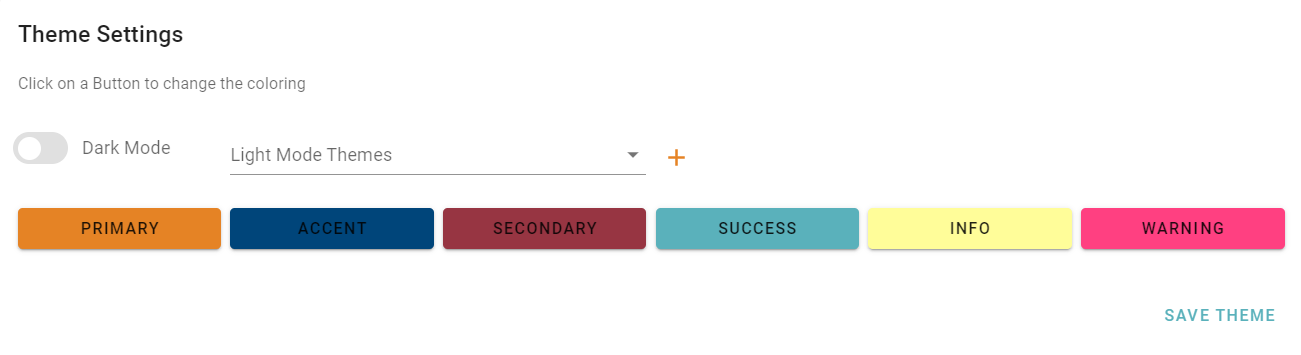
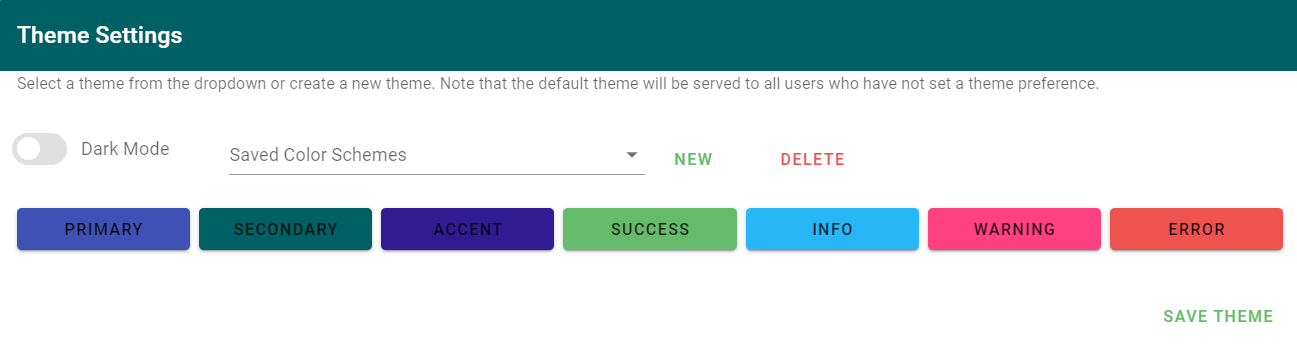
documentation

diff --git a/frontend/src/components/MealPlan/MealPlanner.vue b/frontend/src/components/MealPlan/MealPlanner.vue
@@ -8,24 +8,24 @@
     <NewMeal v-else @created="requestMeals" />
 
     <v-card class="my-1">
-      <v-card-title class="accent white--text"> Meal Plans </v-card-title>
+      <v-card-title class="secondary white--text"> Meal Plans </v-card-title>
 
       <v-timeline align-top :dense="$vuetify.breakpoint.smAndDown">
         <v-timeline-item
-          class="px-1"
+          class="mx-4"
           v-for="(mealplan, i) in plannedMeals"
           :key="i"
           color="accent lighten-2"
           icon="mdi-silverware-variant"
           fill-dot
         >
-          <v-card color="accent lighten-2" dark>
-            <v-card-title class="title">
+          <v-card>
+            <v-card-title class="white--text secondary lighten-1">
               {{ formatDate(mealplan.startDate) }} -
               {{ formatDate(mealplan.endDate) }}
             </v-card-title>
 
-            <v-card-text class="white text--primary">
+            <v-card-text>
               <v-row dense align="center">
                 <v-col></v-col>
                 <v-col
@@ -42,22 +42,24 @@
                 </v-col>
                 <v-col></v-col>
               </v-row>
-              <v-btn
-                color="accent lighten-2"
-                class="mx-0"
-                outlined
-                @click="editPlan(mealplan.uid)"
-              >
-                Edit
-              </v-btn>
-              <v-btn
-                color="error lighten-2"
-                class="mx-2"
-                outlined
-                @click="deletePlan(mealplan.uid)"
-              >
-                Delete
-              </v-btn>
+              <v-row class="mt-2 ml-1">
+                <v-btn
+                  color="accent lighten-2"
+                  class="mx-0"
+                  text
+                  @click="editPlan(mealplan.uid)"
+                >
+                  Edit
+                </v-btn>
+                <v-btn
+                  color="error lighten-2"
+                  class="mx-2"
+                  text
+                  @click="deletePlan(mealplan.uid)"
+                >
+                  Delete
+                </v-btn>
+              </v-row>
             </v-card-text>
           </v-card>
         </v-timeline-item>

diff --git a/frontend/src/components/RecipeEditor/ViewRecipe.vue b/frontend/src/components/RecipeEditor/ViewRecipe.vue
@@ -16,7 +16,7 @@
             type="label"
             :ripple="false"
             elevation="0"
-            color="accent darken-1"
+            color="secondary darken-1"
             class="rounded-sm static"
           >
             {{ yields }}
@@ -24,8 +24,8 @@
         </v-col>
         <v-rating
           class="mr-2 align-end static"
-          color="accent darken-1"
-          background-color="accent lighten-3"
+          color="secondary darken-1"
+          background-color="secondary lighten-3"
           length="5"
           :value="rating"
         ></v-rating>
@@ -41,7 +41,7 @@
               hide-details
               class="ingredients"
               :label="ingredient"
-              color="accent"
+              color="secondary"
             >
             </v-checkbox>
           </div>
@@ -117,7 +117,7 @@
           :ripple="false"
           elevation="0"
           :href="orgURL"
-          color="accent darken-1"
+          color="secondary darken-1"
           target="_blank"
           class="rounded-sm mr-4"
         >

diff --git a/frontend/src/components/Admin/Theme.vue b/frontend/src/components/Admin/Theme.vue
@@ -1,6 +1,6 @@
 <template>
   <v-card>
-    <v-card-title class="card-title mt-1"> Theme Settings </v-card-title>
+    <v-card-title class="secondary white--text"> Theme Settings </v-card-title>
     <v-card-text>
       <p>
         Select a theme from the dropdown or create a new theme. Note that the
@@ -45,13 +45,13 @@
           <ColorPicker button-text="Primary" v-model="activeTheme.primary" />
         </v-col>
         <v-col>
-          <ColorPicker button-text="Accent" v-model="activeTheme.accent" />
-        </v-col>
-        <v-col>
           <ColorPicker
             button-text="Secondary"
             v-model="activeTheme.secondary"
           />
+        </v-col>
+        <v-col>
+          <ColorPicker button-text="Accent" v-model="activeTheme.accent" />
         </v-col>
         <v-col>
           <ColorPicker button-text="Success" v-model="activeTheme.success" />

diff --git a/frontend/src/components/UI/ButtonRow.vue b/frontend/src/components/UI/ButtonRow.vue
@@ -9,11 +9,11 @@
         <v-btn class="mr-2" fab dark small color="success" @click="save">
           <v-icon>mdi-content-save</v-icon>
         </v-btn>
-        <v-btn class="mr-5" fab dark small color="accent" @click="json">
+        <v-btn class="mr-5" fab dark small color="secondary" @click="json">
           <v-icon>mdi-code-braces</v-icon>
         </v-btn>
       </div>
-      <v-btn color="secondary" fab dark small @click="editor">
+      <v-btn color="accent" fab dark small @click="editor">
         <v-icon>mdi-square-edit-outline</v-icon>
       </v-btn>
     </template>

diff --git a/frontend/src/components/AddRecipe.vue b/frontend/src/components/AddRecipe.vue
@@ -20,11 +20,11 @@
     </v-dialog>
     <v-speed-dial v-model="fab" fixed right bottom open-on-hover>
       <template v-slot:activator>
-        <v-btn v-model="fab" color="secondary" dark fab @click="navCreate">
+        <v-btn v-model="fab" color="accent" dark fab @click="navCreate">
           <v-icon> mdi-plus </v-icon>
         </v-btn>
       </template>
-      <v-btn fab dark small color="success" @click="addRecipe = true">
+      <v-btn fab dark small color="primary" @click="addRecipe = true">
         <v-icon>mdi-link</v-icon>
       </v-btn>
     </v-speed-dial>

diff --git a/frontend/src/components/RecipeEditor/EditRecipe.vue b/frontend/src/components/RecipeEditor/EditRecipe.vue
@@ -22,7 +22,6 @@
         <v-col sm="5">
           <v-text-field
             label="Servings"
-            color="accent darken-1"
             v-model="value.recipeYield"
           >
           </v-text-field>
@@ -30,8 +29,8 @@
         <v-col></v-col>
         <v-rating
           class="mr-2 align-end"
-          color="accent darken-1"
-          background-color="accent lighten-3"
+          color="secondary darken-1"
+          background-color="secondary lighten-3"
           length="5"
           v-model="value.rating"
         ></v-rating>

diff --git a/frontend/src/components/MealPlan/EditPlan.vue b/frontend/src/components/MealPlan/EditPlan.vue
@@ -1,6 +1,6 @@
 <template>
   <v-card>
-    <v-card-title class="accent white--text"> Edit Meal Plan </v-card-title>
+    <v-card-title class="secondary white--text"> Edit Meal Plan </v-card-title>
     <v-card-text> </v-card-text>
 
     <v-card-text>
@@ -32,7 +32,6 @@ export default {
       return utils.getDateAsPythonDate(dateObject);
     },
     async update() {
-      this.process();
       await api.mealPlans.update(this.mealPlan.uid, this.mealPlan);
       this.$emit("updated");
     },

diff --git a/frontend/src/components/Admin/Backup.vue b/frontend/src/components/Admin/Backup.vue
@@ -1,6 +1,8 @@
 <template>
   <v-card :loading="backupLoading" class="mt-3">
-    <v-card-title class="card-title"> Backup and Exports </v-card-title>
+    <v-card-title class="secondary white--text">
+      Backup and Exports
+    </v-card-title>
     <v-card-text>
       <p>
         Backups are exported in standard JSON format along with all the images

diff --git a/frontend/src/components/Admin/Webhooks.vue b/frontend/src/components/Admin/Webhooks.vue
@@ -1,6 +1,8 @@
 <template>
   <v-card>
-    <v-card-title class="card-title mt-1"> Meal Planner Webhooks </v-card-title>
+    <v-card-title class="secondary white--text mt-1">
+      Meal Planner Webhooks
+    </v-card-title>
     <v-card-text>
       <p>
         The URLs listed below will recieve webhooks containing the recipe data

diff --git a/frontend/src/components/UI/RecipeCard.vue b/frontend/src/components/UI/RecipeCard.vue
@@ -13,8 +13,8 @@
           <v-col>
             <v-rating
               class="mr-2"
-              color="accent"
-              background-color="accent lighten-3"
+              color="secondary"
+              background-color="secondary lighten-3"
               dense
               length="5"
               size="15"

diff --git a/frontend/src/components/MealPlan/ThisWeek.vue b/frontend/src/components/MealPlan/ThisWeek.vue
@@ -17,7 +17,7 @@
 
                 <v-card-actions>
                   <v-btn
-                    color="accent"
+                    color="secondary"
                     text
                     @click="$router.push(`/recipe/${meal.slug}`)"
                   >

diff --git a/frontend/src/components/MealPlan/NewMeal.vue b/frontend/src/components/MealPlan/NewMeal.vue
@@ -1,6 +1,6 @@
 <template>
   <v-card>
-    <v-card-title class="accent white--text">
+    <v-card-title class="secondary white--text">
       Create a New Meal Plan
     </v-card-title>
     <v-card-text>
